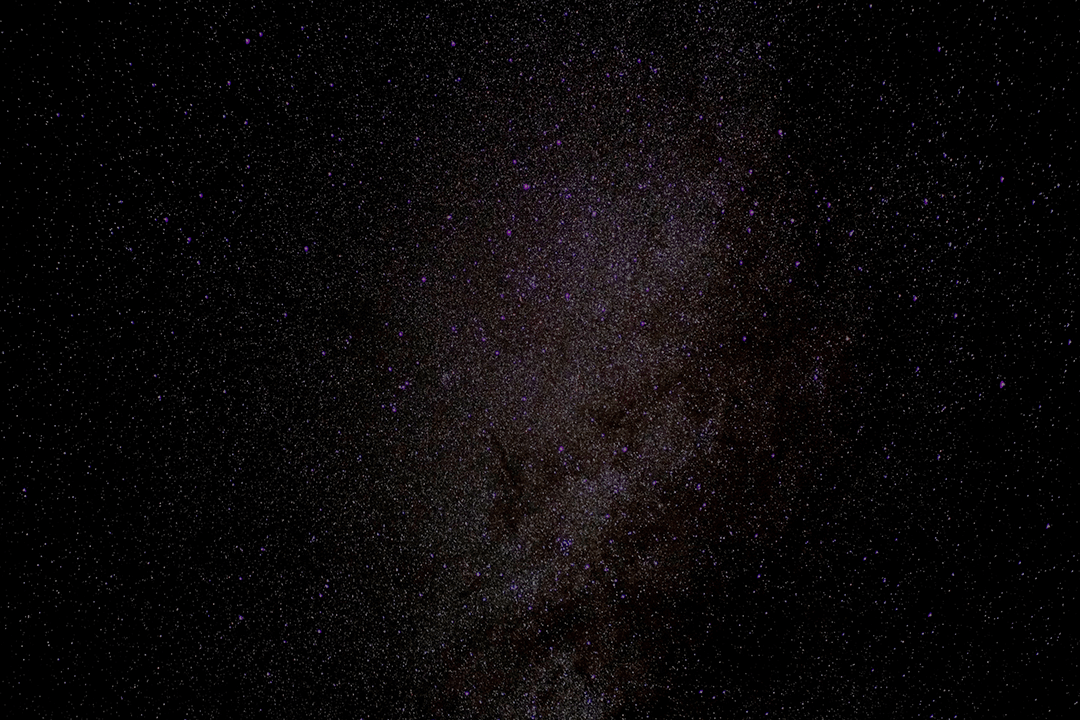
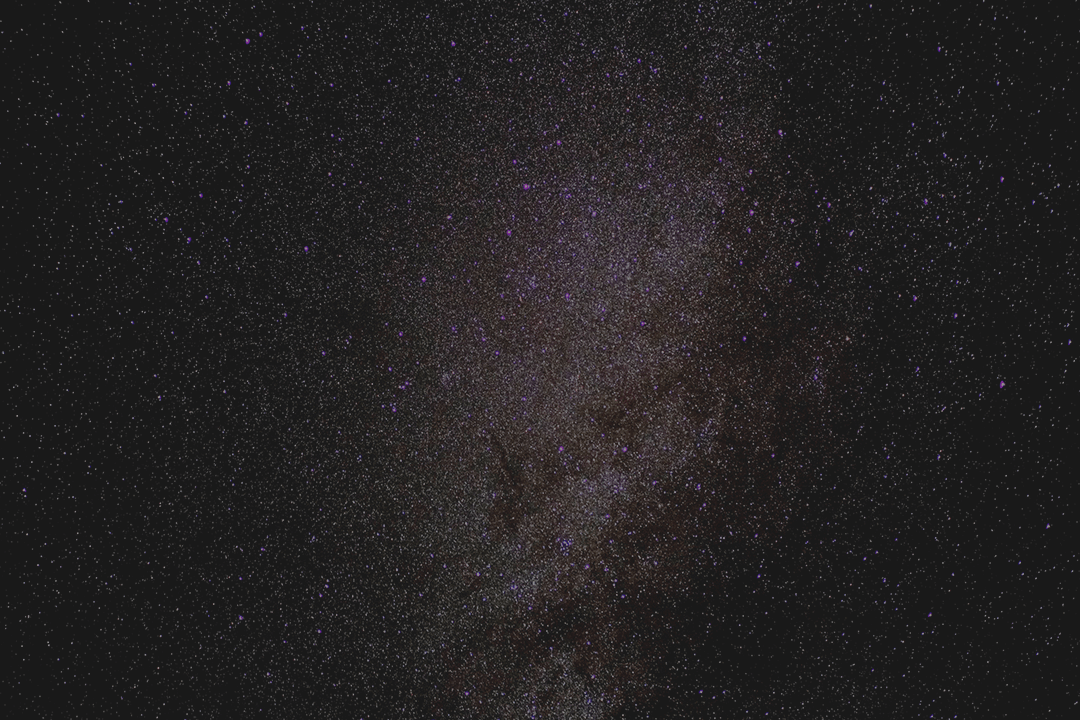
refactor:更新首页样式

diff --git a/assets/static/css/home.css b/assets/static/css/home.css
@@ -134,7 +134,7 @@ body{
 	border-radius: 20px;
 	color: lightcyan;
 	font-size: 24px;
-	animation: breathe 3000ms ease-out infinite alternate;
+	animation: breathe 2000ms ease-out infinite alternate;
 }
 .col-container-front:after{
 	position: absolute;
@@ -157,7 +157,7 @@ body{
 		box-shadow: 0 0 20px rgba(255, 255, 255, 0.6), inset 0 0 10px rgba(255, 255, 255, 0.4), 0 0px 0 lightcyan;
 	}
 	100% {
-		opacity: 0.6;
+		opacity: 0.8;
 		box-shadow: 0 0 5px rgba(255, 255, 255, 0.2), inset 0 0 5px rgba(255, 255, 255, 0.2), 0 0px 0 lightcyan;
 	}
 }

diff --git a/template/home.html b/template/home.html
@@ -14,7 +14,7 @@
 		<link rel="stylesheet" href= {% static "css/style.css" %} />
 	</head>
 	<body>
-		<div class="cover" style="background: url({% static "img/home-bg.png" %}) repeat center 0;">
+		<div class="cover" style="background: #000 url({% static "img/home-bg.png" %}) repeat center 0; filter:alpha(opacity=60);">
 			<div class="cover-inner">
 				<div class="cover-container">
 					<nav class="cover-header">
